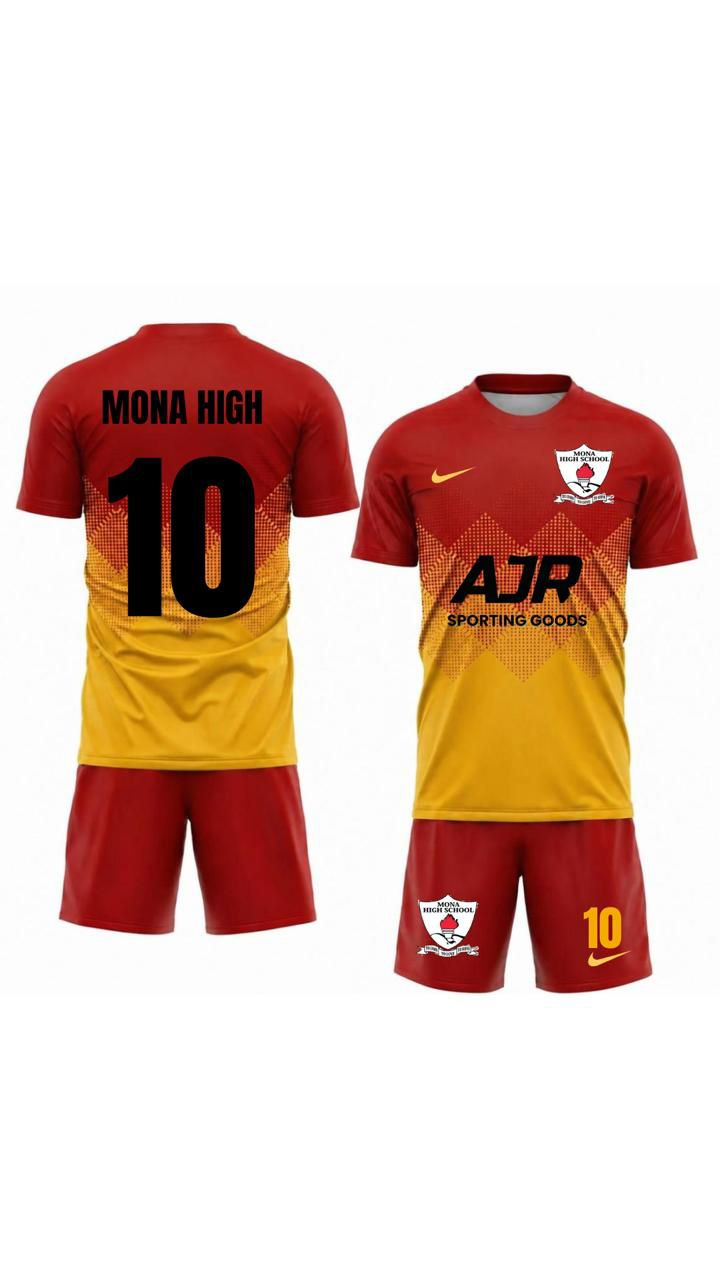
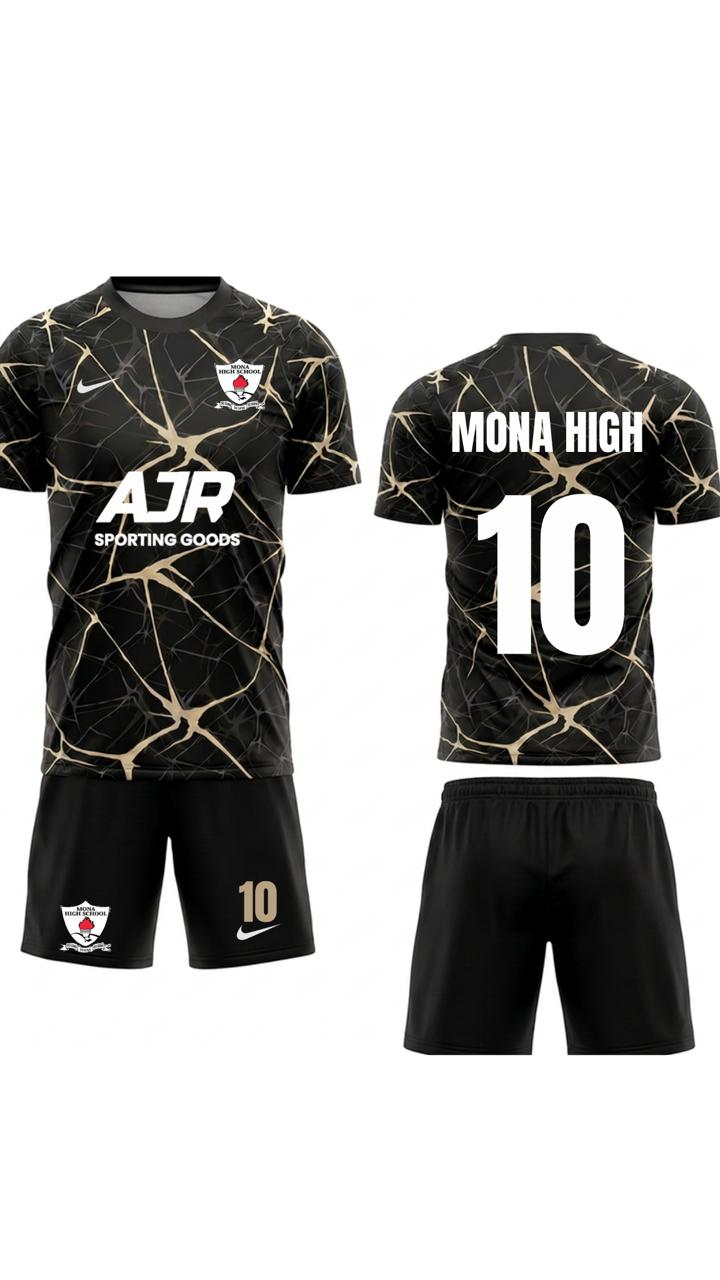
feat: update Mona High jersey/branding to black-gold; fix signup name placeholder

diff --git a/apps/web/lib/school-teams.ts b/apps/web/lib/school-teams.ts
@@ -51,9 +51,9 @@ export const SCHOOL_TEAM_BRANDING: Record<string, TeamBranding> = {
   'Mona High School': {
     slug: 'mona-high-school',
     shortName: 'MON',
-    primary: '#b92a22',
-    secondary: '#e8b51f',
-    accent: '#f08d32',
+    primary: '#111111',
+    secondary: '#c4a96a',
+    accent: '#a8904d',
     logoPath: '/team-logos/mona-high-school.jpeg',
   },
   'Munro College': {

diff --git a/apps/web/app/auth/register/page.tsx b/apps/web/app/auth/register/page.tsx
@@ -233,7 +233,7 @@ export default function RegisterPage() {
                   value={fullName}
                   onChange={e => setFullName(e.target.value)}
                   required
-                  placeholder="Michael Crawford"
+                  placeholder="Full Name"
                   className="input"
                 />
               </div>